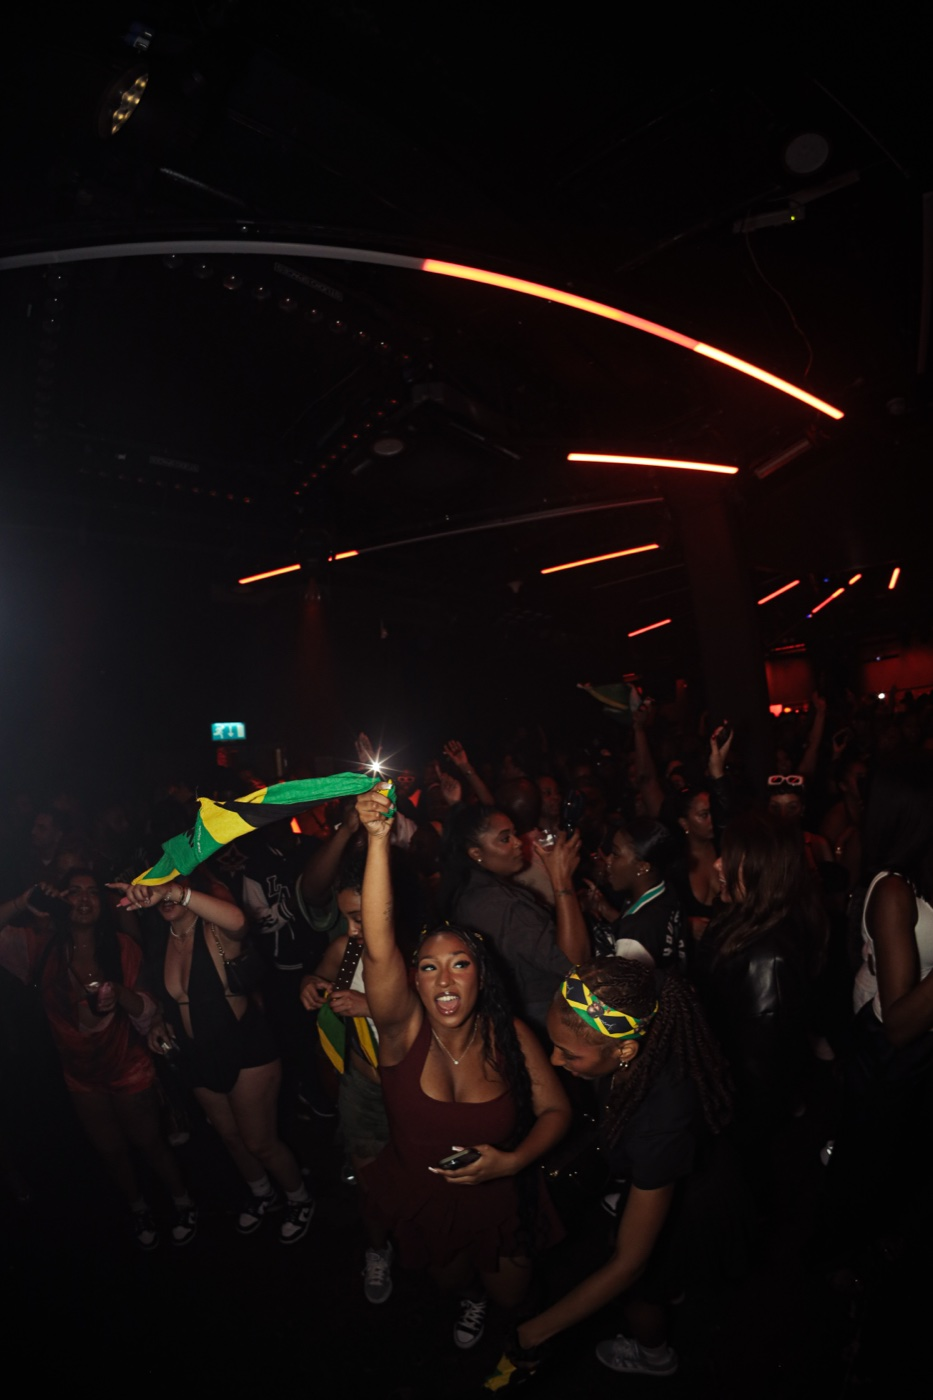
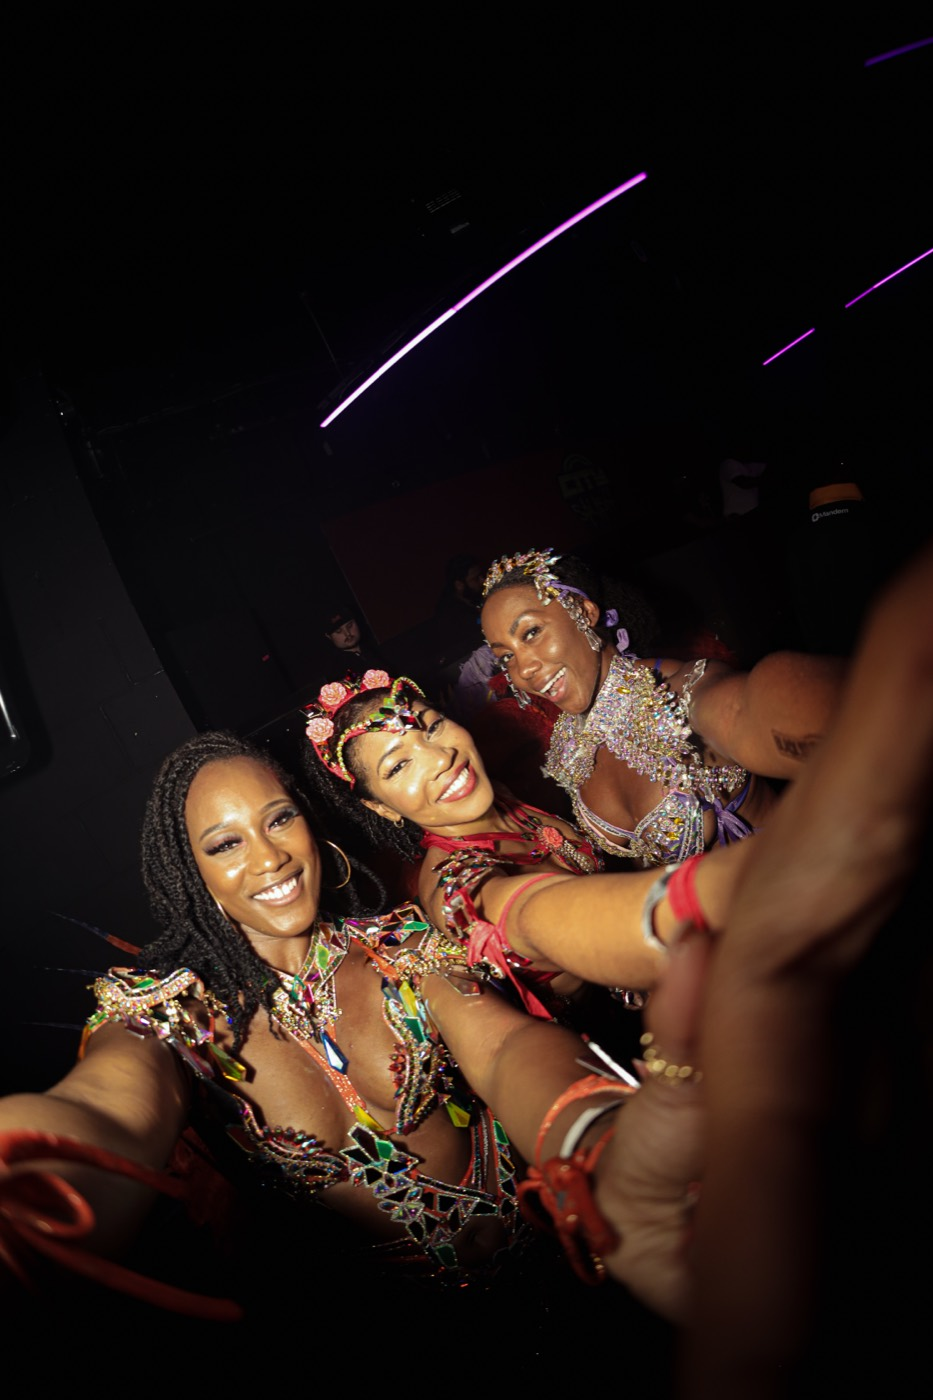
Swap gallery: selfie photo now top-left, flag photo moved down

diff --git a/index.html b/index.html
@@ -166,10 +166,10 @@
     </div>
 
     <div class="gallery-grid">
-      <button class="gallery-item reveal" data-full="assets/img/gallery-07.jpg"><img src="assets/img/gallery-07.jpg" alt="Crowd waving a Jamaican flag at City Splash"></button>
+      <button class="gallery-item reveal" data-full="assets/img/gallery-07.jpg"><img src="assets/img/gallery-07.jpg" alt="Three friends in carnival costume taking a selfie at City Splash"></button>
       <button class="gallery-item reveal" data-full="assets/img/gallery-01.jpg"><img src="assets/img/gallery-01.jpg" alt="Packed dancefloor at City Splash"></button>
       <button class="gallery-item reveal" data-full="assets/img/gallery-03.jpg"><img src="assets/img/gallery-03.jpg" alt="DJ set with City Splash logo on screen"></button>
-      <button class="gallery-item reveal" data-full="assets/img/gallery-08.jpg"><img src="assets/img/gallery-08.jpg" alt="City Splash carnival costume performer"></button>
+      <button class="gallery-item reveal" data-full="assets/img/gallery-08.jpg"><img src="assets/img/gallery-08.jpg" alt="Crowd waving a Jamaican flag at City Splash"></button>
       <button class="gallery-item reveal" data-full="assets/img/gallery-04.jpg"><img src="assets/img/gallery-04.jpg" alt="Crowd with hands up at City Splash"></button>
       <button class="gallery-item reveal" data-full="assets/img/gallery-05.jpg"><img src="assets/img/gallery-05.jpg" alt="City Splash dancefloor with signage"></button>
       <button class="gallery-item reveal" data-full="assets/img/gallery-02.jpg"><img src="assets/img/gallery-02.jpg" alt="Crowd celebrating with a flag at City Splash"></button>
